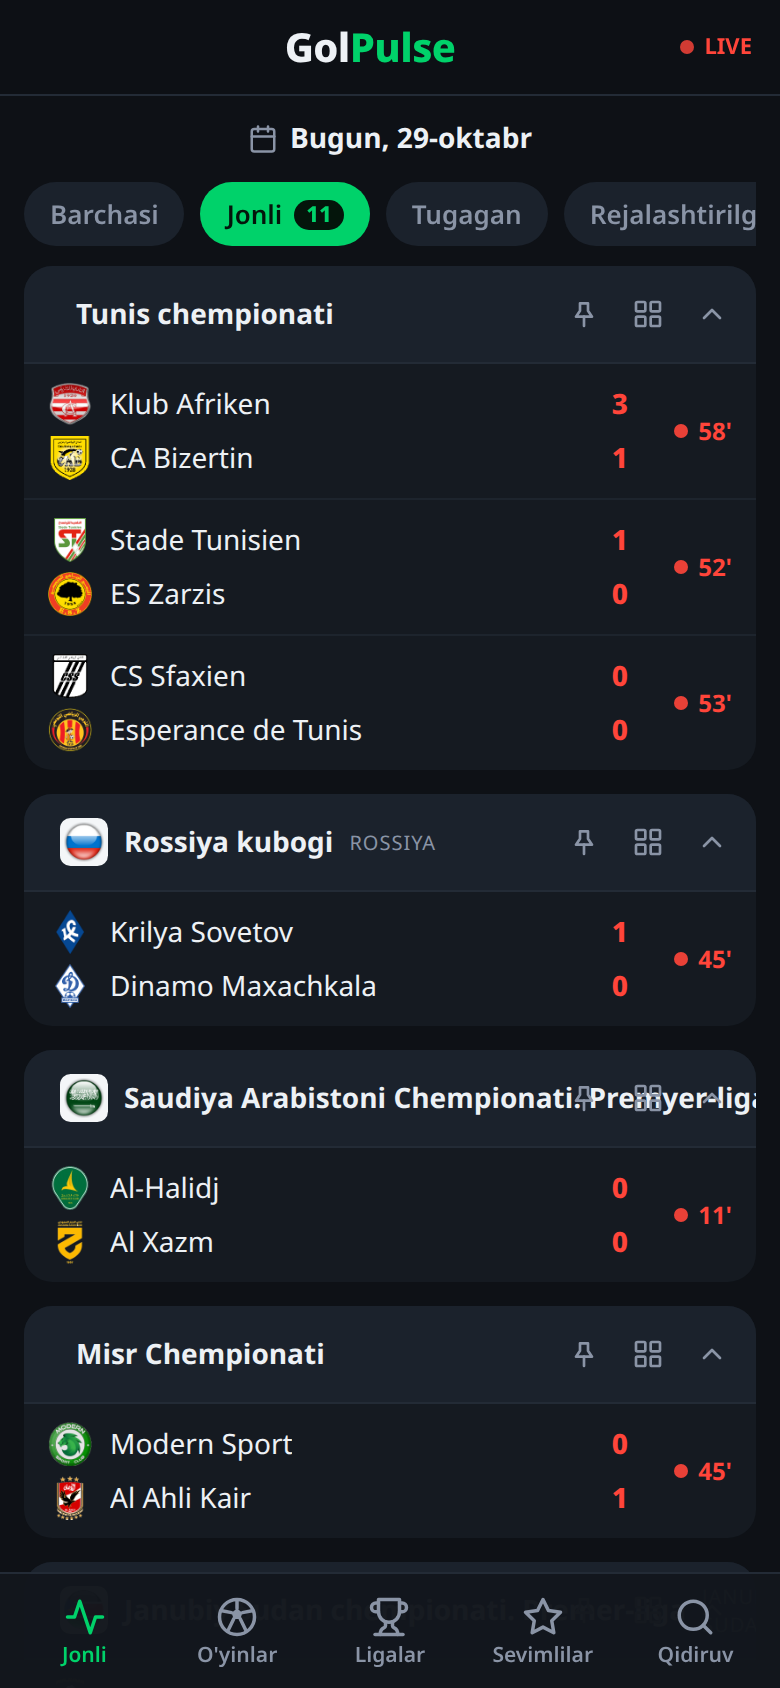
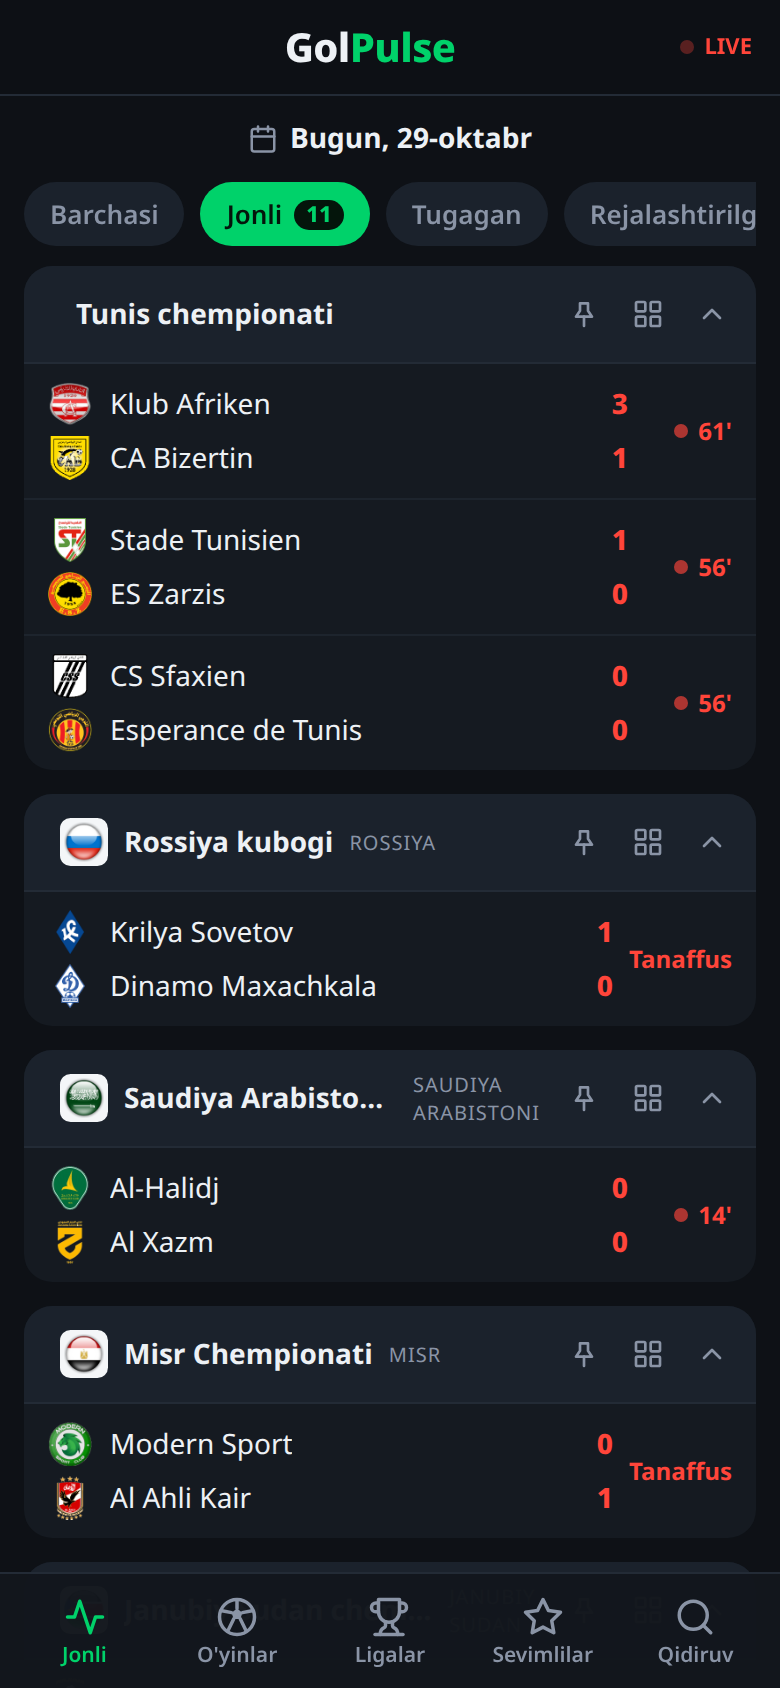
Fix: tarkib teamId (adapter) + teamInfo himoyasi — maydon crash tuzatildi

diff --git a/app/src/pages/MatchPage.tsx b/app/src/pages/MatchPage.tsx
@@ -125,8 +125,8 @@ function Pitch({ bundle }: { bundle: MatchBundle }) {
     <div className="pitch">
       <div className="pitch-line mid" /><div className="pitch-circle" />
       <div className="pitch-line box-top" /><div className="pitch-line box-bottom" />
-      {renderTeam(lu.home.players, true, lu.home.teamId)}
-      {renderTeam(lu.away.players, false, lu.away.teamId)}
+      {renderTeam(lu.home.players, true, lu.home.teamId || bundle.match.home.id)}
+      {renderTeam(lu.away.players, false, lu.away.teamId || bundle.match.away.id)}
     </div>
   )
 }

diff --git a/app/src/api.ts b/app/src/api.ts
@@ -92,6 +92,7 @@ export function registerLeague(l: LeagueStub): void {
 }
 
 export function teamInfo(id: string): TeamVisual {
+  if (!id) return { name: '—', short: '—', color: '#555' }
   const r = teamRegistry.get(id)
   if (r) return r
   return { name: id, short: id.slice(0, 3).toUpperCase(), color: colorFor(id) }
